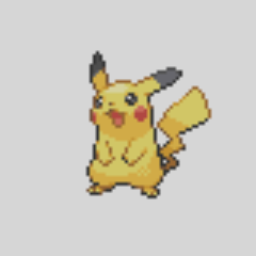
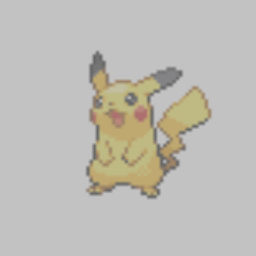
integradas y corregidas las funciones 3 y 4

Changed region(s): [[0.3125, 0.1875, 0.8438, 0.7812]]

diff --git a/testing.cpp b/testing.cpp
@@ -87,9 +87,22 @@ void operacion_3(Imagen* img, float atenuacion) {
 // Operación 4
 void operacion_4(Imagen* img, int umbral) {
     //cambio a blanco y negro
-    for (int i = 0; i < img->width * img->height * img->channels; i++) { //recorre todos los pixeles
-        
-        img->data[i] = (img->data[i] > umbral) ? 255 : 0; //convierte los pixeles a blanco o negro dependiendo si estan sobre o bajo el umbral respectivamente
+    for (int i = 0; i < img->width * img->height; i++) { // Recorre cada píxel
+        int canal = i * img->channels; // busca los canales correspondientes al pixel
+        unsigned char r = img->data[canal];     // Canal rojo
+        unsigned char g = img->data[canal + 1]; // Canal verde
+        unsigned char b = img->data[canal + 2]; // Canal azul
+
+        // Calcular iluminacion del pixel
+        unsigned char iluminacion = static_cast<unsigned char>(0.3 * r + 0.59 * g + 0.11 * b);
+
+        // Comparar la luminancia con el umbral
+        unsigned char cambio = (iluminacion > umbral) ? 255 : 0;  // condicion? si cumple : si no cumple
+
+        // cambiar todos los canales segun corresponda
+        img->data[canal] = cambio;     // Canal rojo
+        img->data[canal + 1] = cambio; // Canal verde
+        img->data[canal+ 2] = cambio; // Canal azul
     }
 }
 
@@ -109,13 +122,13 @@ int main() {
     delete img2;
 
     Imagen* img3 = load("Pikachu.png");
-    operacion_3(img3, 0.8);
+    operacion_3(img3, 0.6);
     save(img3, "pikachu atenuado.png");
     delete[] img3->data;
     delete img3;
 
     Imagen* img4 = load("Pikachu.png");
-    operacion_4(img4, 70);
+    operacion_4(img4, 150);
     save(img4, "pikachu byn.png");
     delete[] img4->data;
     delete img4;
